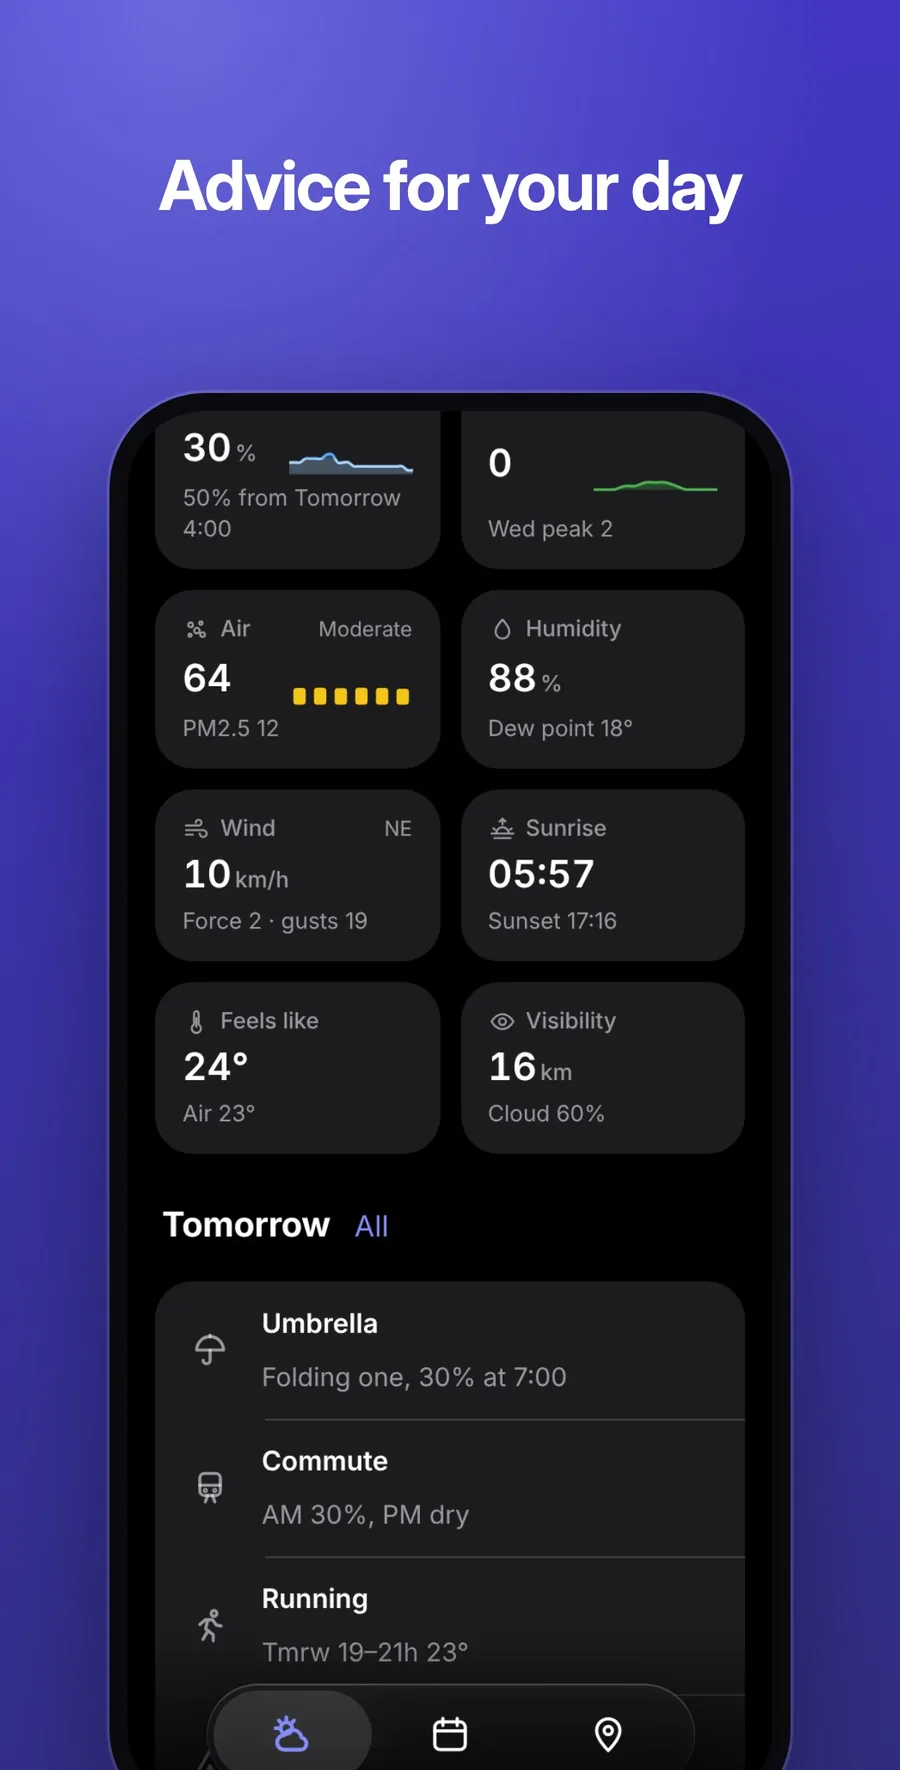
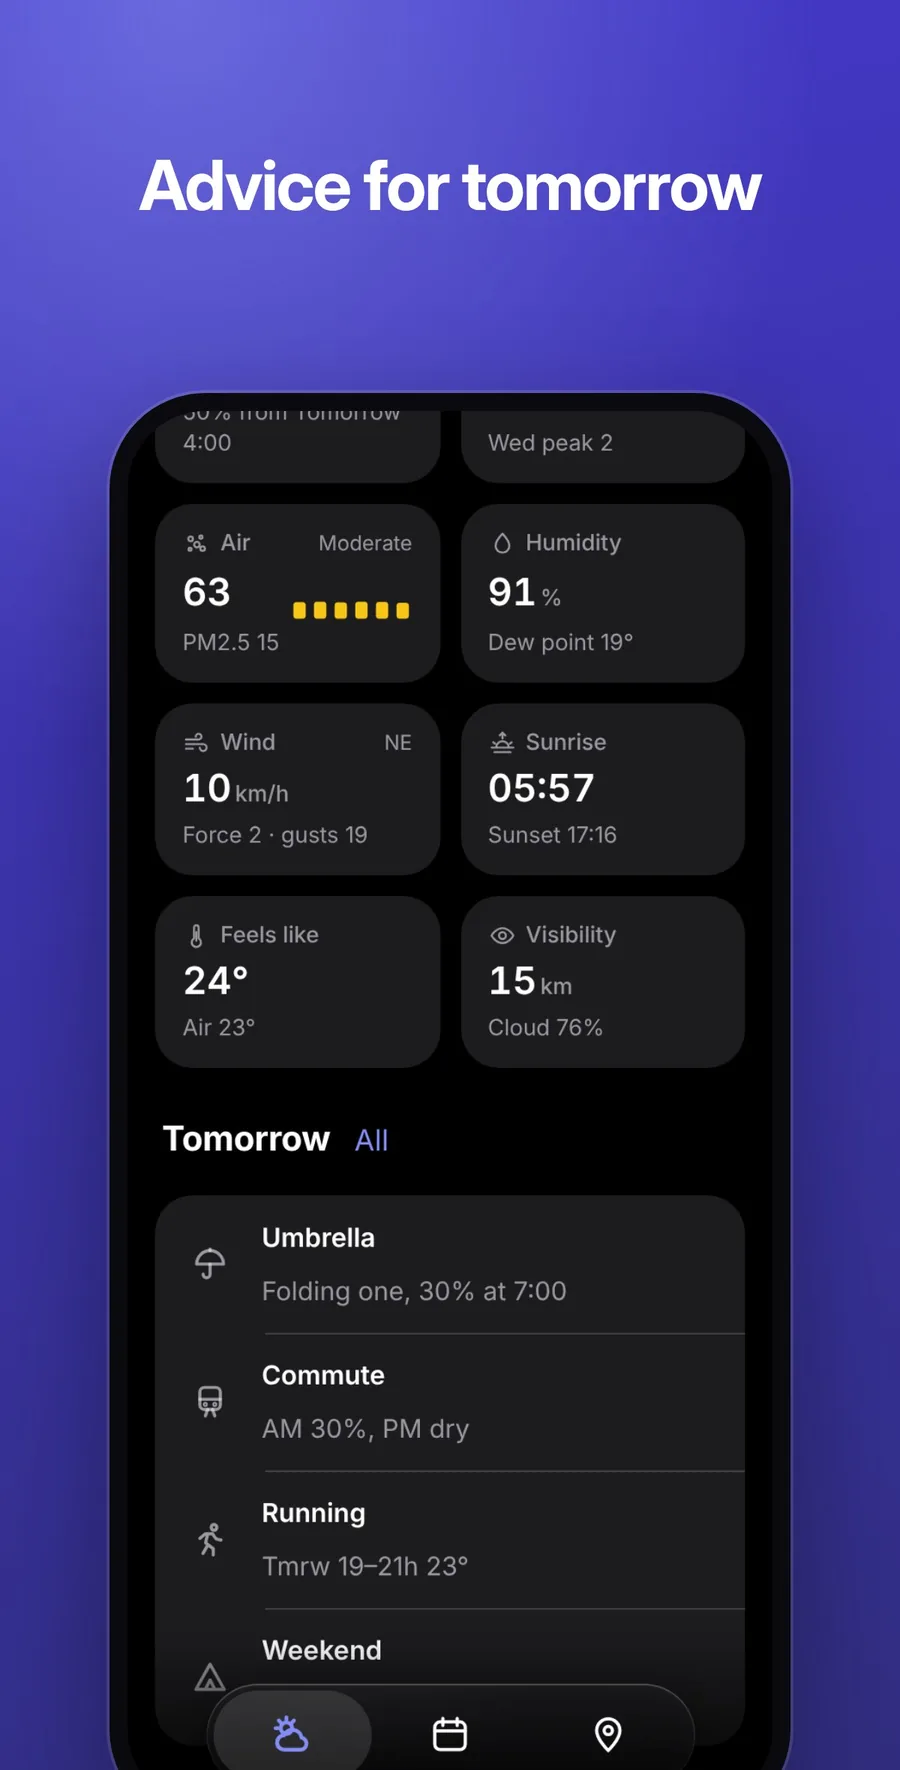
README screenshots: lead with what the app does best
Six new shots, light and dark mixed, each with a headline on the app's
colour; the set opens with the app's signature feature, then the overview.

Claude-Session: https://claude.ai/code/session_01DckgWN5jX3TGSVUUZd7t8V

diff --git a/README.md b/README.md
@@ -24,6 +24,12 @@ One forecast for where you are and the places you pin, down to the township. Par
 <p align="center">
   <img src="docs/screenshots/weather-4.webp" width="30%" alt="The air around you">
   <img src="docs/screenshots/weather-5.webp" width="30%" alt="The week ahead">
+  <img src="docs/screenshots/weather-6.webp" width="30%" alt="Advice for tomorrow">
+</p>
+
+<p align="center">
+  <img src="docs/screenshots/weather-4.webp" width="30%" alt="The air around you">
+  <img src="docs/screenshots/weather-5.webp" width="30%" alt="The week ahead">
   <img src="docs/screenshots/weather-6.webp" width="30%" alt="Advice for your day">
 </p>
 
